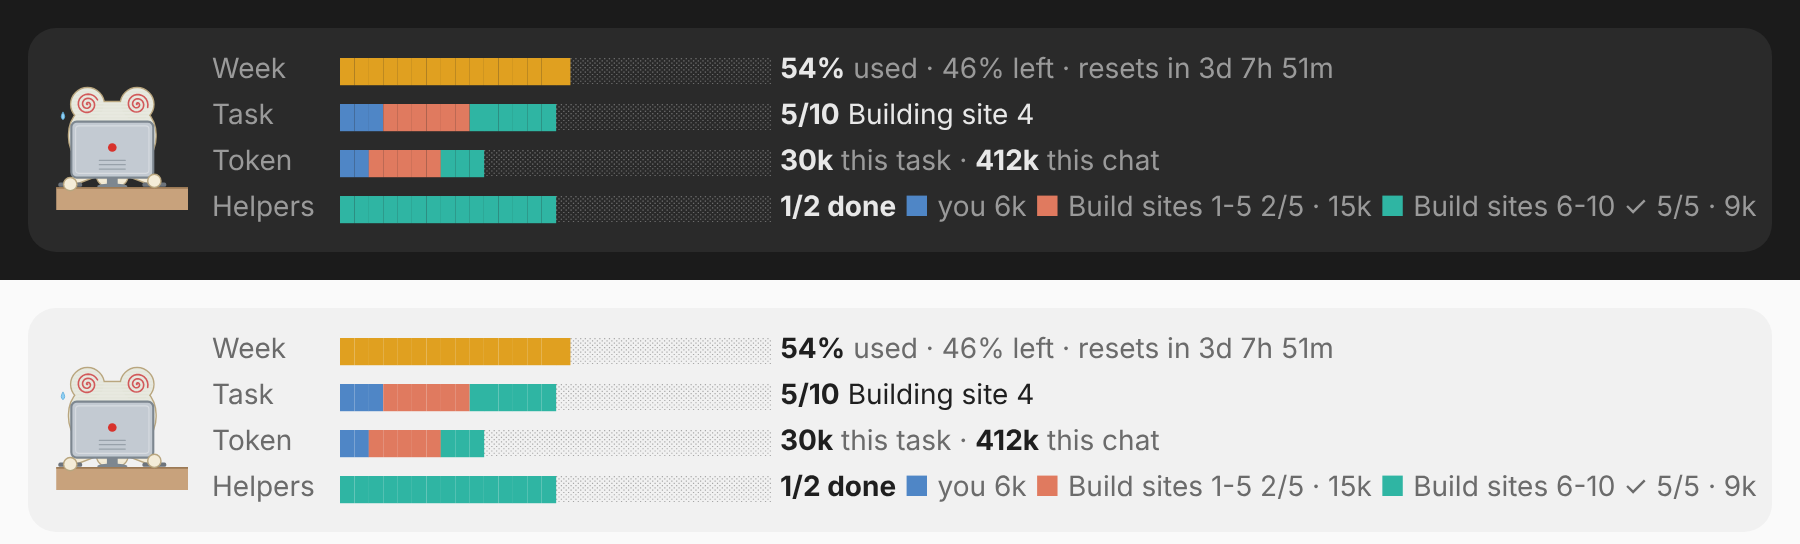
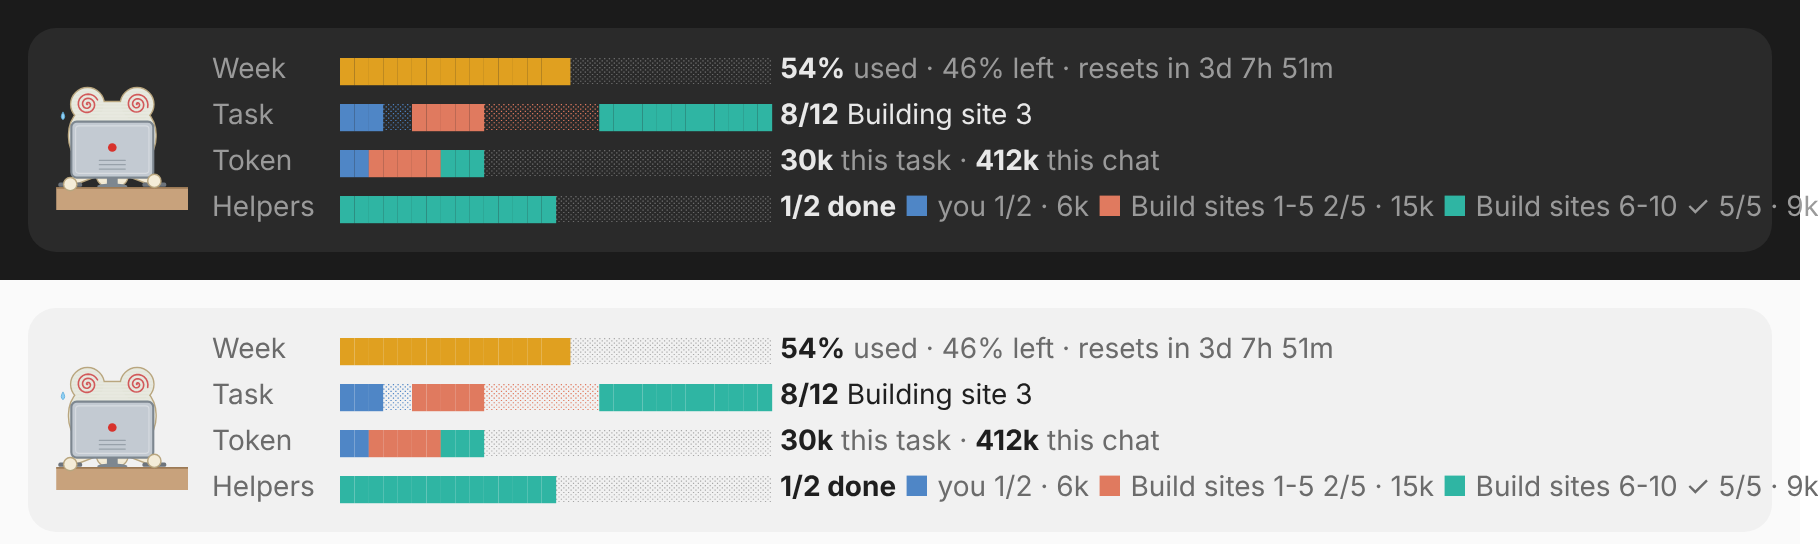
Task bar: one lane per worker showing its own progress
While helpers work, the Task bar splits into lanes sized by each
worker's share of the to-do items: finished items solid in its colour,
the rest a light shade, so each helper's completion is visible. The
colour key also shows your own progress.

Claude-Session: https://claude.ai/code/session_01JtoWSS4hHwE8T4PegbGPHs

diff --git a/hooks/register.tsx b/hooks/register.tsx
@@ -75,26 +75,46 @@ const YOU_COLOR = '#4f86c6'
 const HELPER_COLORS = ['#e07a5f', '#2fb5a3', '#b07cd8', '#e0a020', '#d4609a', '#7aa63c']
 const helperColor = (h: Helper, i: number) => HELPER_COLORS[(h.color ?? i) % HELPER_COLORS.length] ?? YOU_COLOR
 
-type Seg = { len: number; color: string }
+/** A run of bar cells: solid, or `shade` for the light part of a lane. */
+type Seg = { len: number; color: string; shade?: boolean }
 
-/** Splits `cells` filled cells among the parts by weight (largest remainder). */
-function segments(parts: { weight: number; color: string }[], cells: number): Seg[] {
-  const live = parts.filter(p => p.weight > 0)
-  const sum = live.reduce((n, p) => n + p.weight, 0)
-  if (sum <= 0 || cells <= 0) return []
-  const exact = live.map(p => (p.weight / sum) * cells)
-  const segs = live.map((p, i) => ({ len: Math.floor(exact[i] ?? 0), color: p.color }))
-  let left = cells - segs.reduce((n, x) => n + x.len, 0)
+/** Splits `cells` among the weights by largest remainder; same order back. */
+function allot(weights: number[], cells: number): number[] {
+  const sum = weights.reduce((n, w) => n + Math.max(0, w), 0)
+  if (sum <= 0 || cells <= 0) return weights.map(() => 0)
+  const exact = weights.map(w => (Math.max(0, w) / sum) * cells)
+  const out = exact.map(x => Math.floor(x))
+  let left = cells - out.reduce((n, x) => n + x, 0)
   const order = exact.map((x, i) => [x - Math.floor(x), i] as const).sort((a, b) => b[0] - a[0])
   for (const [, i] of order) {
     if (left <= 0) break
-    const seg = segs[i]
-    if (seg) {
-      seg.len += 1
-      left -= 1
-    }
+    out[i] = (out[i] ?? 0) + 1
+    left -= 1
   }
-  return segs.filter(x => x.len > 0)
+  return out
+}
+
+/** Splits `cells` filled cells among the parts by weight. */
+function segments(parts: { weight: number; color: string }[], cells: number): Seg[] {
+  const lens = allot(parts.map(p => p.weight), cells)
+  return parts.map((p, i) => ({ len: lens[i] ?? 0, color: p.color })).filter(x => x.len > 0)
+}
+
+/**
+ * One lane per worker across the whole bar, as wide as its share of the to-do
+ * items: the finished part solid in its colour, the rest a light shade of it.
+ */
+function lanes(parts: { done: number; total: number; color: string }[], cells: number): Seg[] {
+  const live = parts.filter(p => p.total > 0)
+  const widths = allot(live.map(p => p.total), cells)
+  return live.flatMap((p, i) => {
+    const width = widths[i] ?? 0
+    const solid = Math.min(width, Math.round((p.done / p.total) * width))
+    return [
+      { len: solid, color: p.color },
+      { len: width - solid, color: p.color, shade: true },
+    ].filter(x => x.len > 0)
+  })
 }
 
 async function loadPngs($: EngineInterface): Promise<void> {
@@ -463,17 +483,24 @@ export const register: Register = on => {
 
     // Task bar: alone, green to red as it fills; with helpers, each one's
     // finished to-do items in its colour, yours in blue.
+    // A helper with no to-do list counts as one item, done when it finishes.
     const tSegs: Seg[] =
-      total > 0 && hasHelpers
-        ? segments(
+      hasHelpers
+        ? lanes(
             [
-              { weight: data.steps.filter(s => s.status === 'completed' && isMine(s)).length, color: YOU_COLOR },
-              ...helpers.map((h, i) => ({
-                weight: data.steps.filter(s => s.status === 'completed' && s.owner === h.id).length,
-                color: helperColor(h, i),
-              })),
+              {
+                done: data.steps.filter(s => s.status === 'completed' && isMine(s)).length,
+                total: data.steps.filter(isMine).length,
+                color: YOU_COLOR,
+              },
+              ...helpers.map((h, i) => {
+                const own = data.steps.filter(s => s.owner === h.id)
+                return own.length > 0
+                  ? { done: own.filter(s => s.status === 'completed').length, total: own.length, color: helperColor(h, i) }
+                  : { done: h.status === 'running' ? 0 : 1, total: 1, color: helperColor(h, i) }
+              }),
             ],
-            Math.round((done / total) * W),
+            W,
           )
         : [{ len: Math.round((Math.min(100, tPct) / 100) * W), color: total > 0 ? tone(tPct) : 'suggestion' }]
 
@@ -499,7 +526,13 @@ export const register: Register = on => {
     // The Helpers row doubles as the colour key: ■ you, then each helper.
     const legend: { key: string; color: string; text: string }[] = hasHelpers
       ? [
-          { key: 'you', color: YOU_COLOR, text: `you ${fmt(mainTokens)}` },
+          {
+            key: 'you',
+            color: YOU_COLOR,
+            text: data.steps.some(isMine)
+              ? `you ${data.steps.filter(s => s.status === 'completed' && isMine(s)).length}/${data.steps.filter(isMine).length} · ${fmt(mainTokens)}`
+              : `you ${fmt(mainTokens)}`,
+          },
           ...helpers.map((h, i) => {
             const own = data.steps.filter(s => s.owner === h.id)
             const progress = own.length > 0
@@ -556,7 +589,7 @@ export const register: Register = on => {
           <Text mono>
             {segs.map((g, i) => (
               <Text key={`s${i}`} color={g.color}>
-                {'█'.repeat(g.len)}
+                {(g.shade ? '░' : '█').repeat(g.len)}
               </Text>
             ))}
             <Text dimColor>{'░'.repeat(Math.max(0, W - segs.reduce((n, g) => n + g.len, 0)))}</Text>

diff --git a/hooks/band.test.tsx b/hooks/band.test.tsx
@@ -55,7 +55,7 @@ test('helpers get their own row and a token split', async ($, on) => {
     })
     expect((await ui.find({ type: 'Text', text: /30k this task/ }))?.text).toContain('30k this task · 250k this chat')
     const helpers = (await ui.find({ type: 'Text', text: /1\/2 done/ }))?.text ?? ''
-    expect(helpers).toContain('■ you 6k')
+    expect(helpers).toContain('■ you 1/3 · 6k')
     expect(helpers).toContain('■ Build sites 1-5 1/2 · 15k')
     expect(helpers).toContain('■ Build sites 6-10 ✓ 4 steps · 9k')
     await ui.unmount()

diff --git a/README.md b/README.md
@@ -15,11 +15,14 @@ The band is three lines tall, plus a fourth while helpers are working:
 | **Token** | Tokens used by the current task (including any helpers) and by the whole chat so far: `30k this task · 412k this chat`. The task count starts again from zero each time you send a new message; the chat count keeps going. |
 | **Helpers** | Only shown while Claude has handed parts of the task to helpers (subagents). It's also the colour key: `■ you`, then one `■` per helper with its job, its progress and its tokens. A `✓` means that helper has finished, a `✗` that it failed. The bar fills as helpers finish. |
 
-Each bar turns from **green** to **amber** to **red** as it fills. While helpers are working, the Task and Token bars switch to **one colour per worker** instead: blue for you (the main conversation) and a different colour for each helper. You can see at a glance who finished which to-do items and who used which tokens.
+Each bar turns from **green** to **amber** to **red** as it fills. While helpers are working, the Task and Token bars switch to **one colour per worker** instead: blue for you (the main conversation) and a different colour for each helper.
+
+- **Task bar:** split into one lane per worker, as wide as its share of the to-do items. The solid part of a lane is what that worker has finished; the light, dotted part is what it still has to do. So a helper at `2/5` shows two-fifths solid, and a finished helper's lane is solid all the way.
+- **Token bar:** shows how the task's tokens divide between you and each helper.
 
 ![The band with two helpers at work](docs/helpers.png)
 
-**An example:** you ask Claude to build 10 sites, and it hands sites 1–5 to one helper and 6–10 to another. The Task row counts all 10 to-do items together. The Task and Token bars are split into blue (Claude itself) and one colour per helper. The Helpers row shows each helper's own progress (`3/5`) and tokens, next to its colour. A helper with no to-do list shows how many steps it has taken instead.
+**An example:** you ask Claude to build 10 sites, and it hands sites 1–5 to one helper and 6–10 to another. The Task row counts all 10 to-do items together. The Task bar gets a blue lane for Claude itself and a lane per helper, each filling up as that worker finishes its items; the Token bar splits the tokens the same way. The Helpers row shows each helper's own progress (`3/5`) and tokens, next to its colour. A helper with no to-do list shows how many steps it has taken instead.
 
 ## Meet the frog
 
